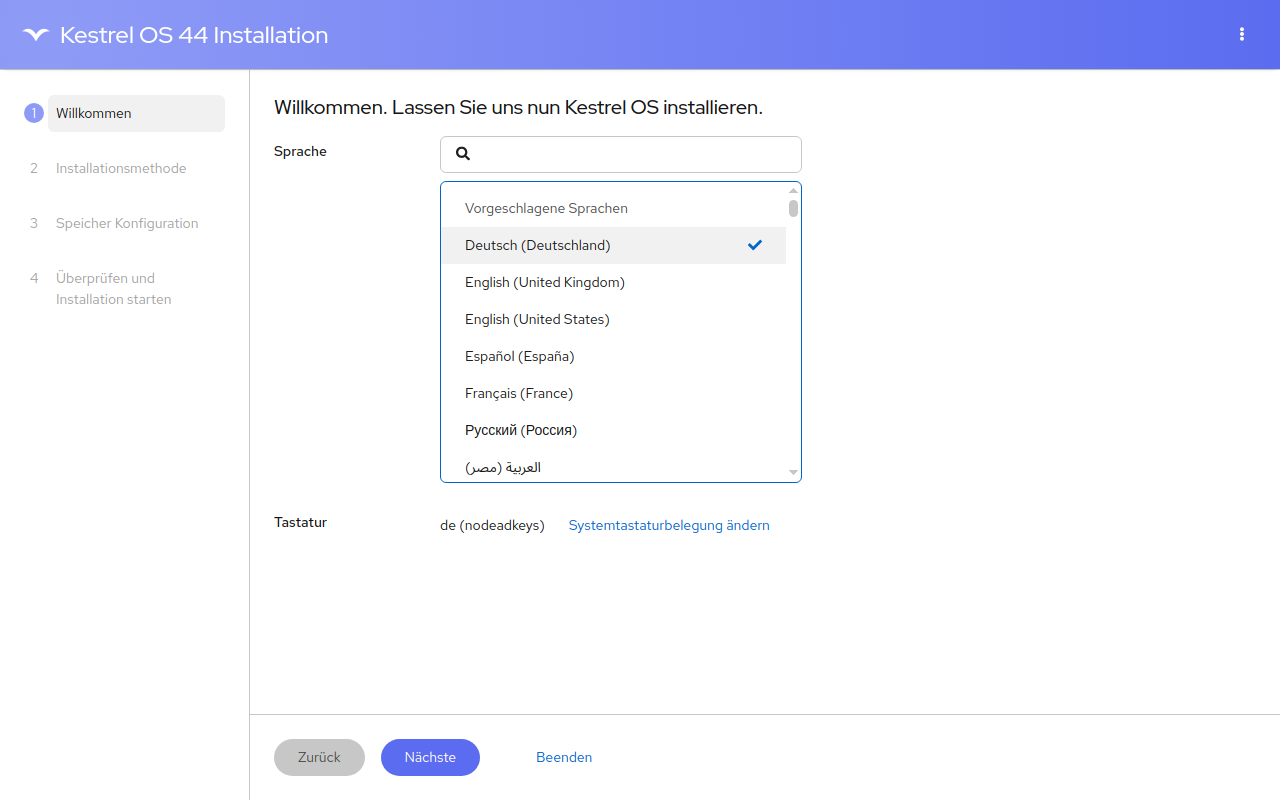
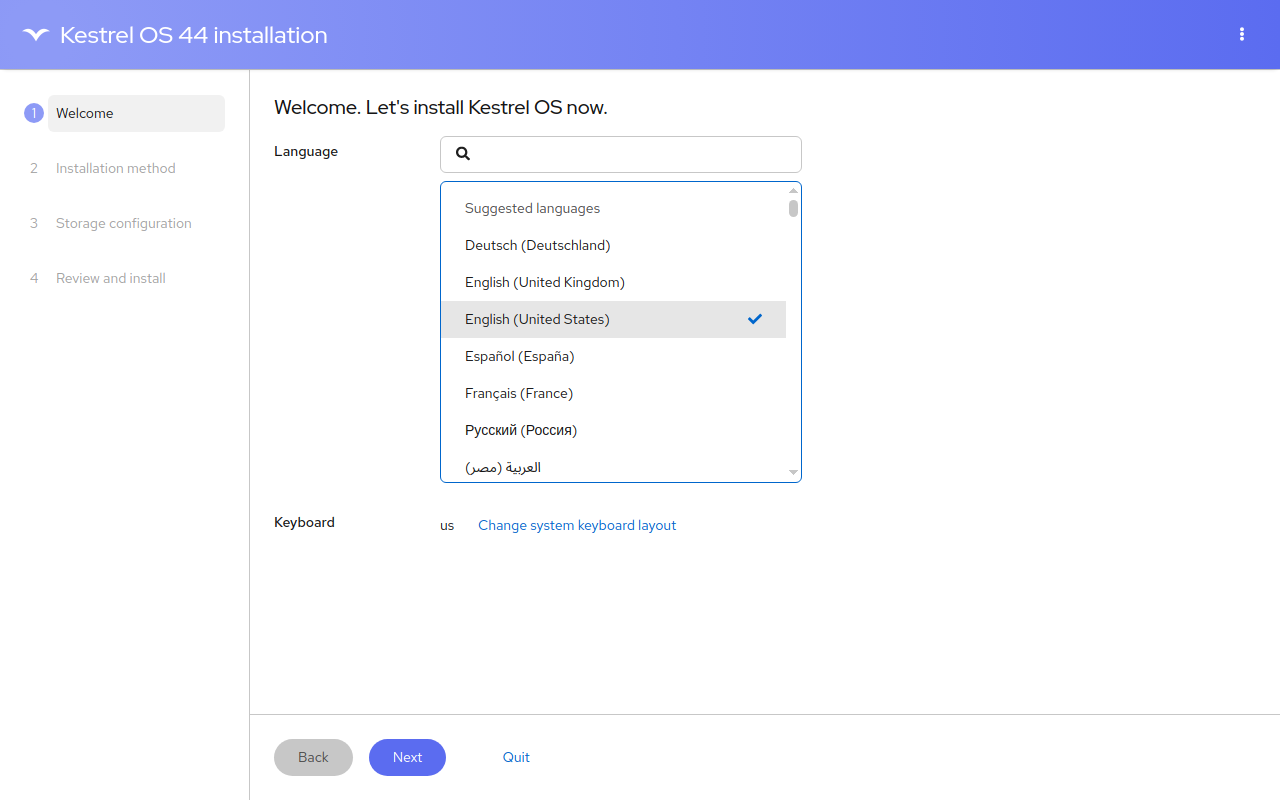
README: all screenshots in English (installer, setup, login, lock screen variants, boot menu); boot menu hint line in English

diff --git a/iso/live/grub_theme.py b/iso/live/grub_theme.py
@@ -47,7 +47,7 @@ def background(os_name):
   <text x="{W / 2}" y="400" text-anchor="middle" fill="#ffffff" font-family="Inter"
         font-weight="300" font-size="52" letter-spacing="1">{os_name}</text>
   <text x="{W / 2}" y="985" text-anchor="middle" fill="#6e6e73" font-family="Inter"
-        font-size="24">Pfeiltasten zum Auswählen, Enter zum Starten</text>
+        font-size="24">Arrow keys to choose, Enter to start</text>
 </svg>"""
 
 

diff --git a/README.md b/README.md
@@ -33,15 +33,14 @@ All screenshots are from the automatic and manual tests in a VM.
 | ![Restart](docs/screenshots/restart-confirm.png) Restart and Shut Down ask first | ![Live desktop](docs/screenshots/live-desktop.png) The live USB stick, with "Install Kestrel OS" in the dock |
 | ![Dock](docs/screenshots/dock-magnification.png) Dock with magnification and labels | ![Lock screen](docs/screenshots/lock-screen.png) Lock screen |
 | ![Lock screen, wrong password](docs/screenshots/lock-screen-password.png) Lock screen after a wrong password | ![Lock screen variant](docs/screenshots/lock-screen-variant.png) One of many lock screen styles: small thin clock, blurred wallpaper, a message |
-| ![Lock screen settings](docs/screenshots/lock-screen-settings.png) Lock screen settings | ![Setup wizard](docs/screenshots/setup-dark-mode.png) First-start setup with dark mode switched on |
-| ![Installer](docs/screenshots/installer.png) Installer from the live USB stick | ![Installer finished](docs/screenshots/installer-done.png) Installation finished |
+| ![Installer](docs/screenshots/installer.png) Installer from the live USB stick: language and keyboard on the first page | ![Installer finished](docs/screenshots/installer-done.png) Installation finished |
 | ![Boot menu](docs/screenshots/boot-menu.png) Boot menu of the live USB stick (same with Secure Boot) | ![Boot screen](docs/screenshots/boot-screen.png) Boot screen |
-| ![Setup welcome](docs/screenshots/setup-welcome.png) First-start setup | ![Setup finished](docs/screenshots/setup-finished.png) End of the setup |
-| ![Login screen](docs/screenshots/login-screen.png) Login screen | ![Start screen](docs/screenshots/start-screen.png) Start screen after logging in, fades into the desktop |
+| ![Setup welcome](docs/screenshots/setup-welcome.png) First start: the setup wizard | ![Setup language](docs/screenshots/setup-language.png) Setup: language, keyboard, time, Wi-Fi, account |
+| ![Setup finished](docs/screenshots/setup-finished.png) End of the setup | ![Login screen](docs/screenshots/login-screen.png) Login screen |
+| ![Start screen](docs/screenshots/start-screen.png) Start screen after logging in, fades into the desktop | |
 
-Kestrel starts in English; every language Fedora supports can be chosen while installing. The
-installer, setup, login and lock screen settings pictures are still from an older German test run
-and are being retaken in English.
+Kestrel starts in English; the installer suggests the language of your location, and every
+language Fedora supports can be chosen while installing.
 
 ## What's inside
 
